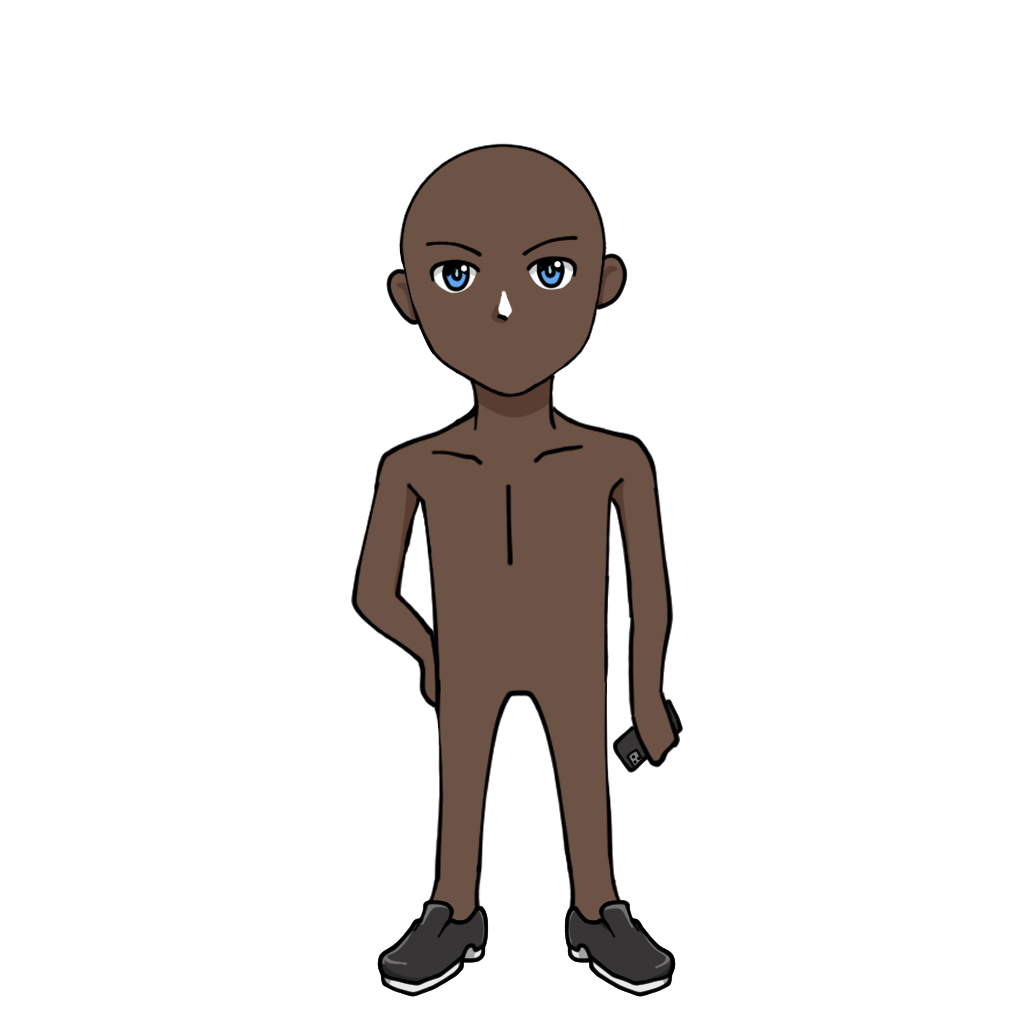
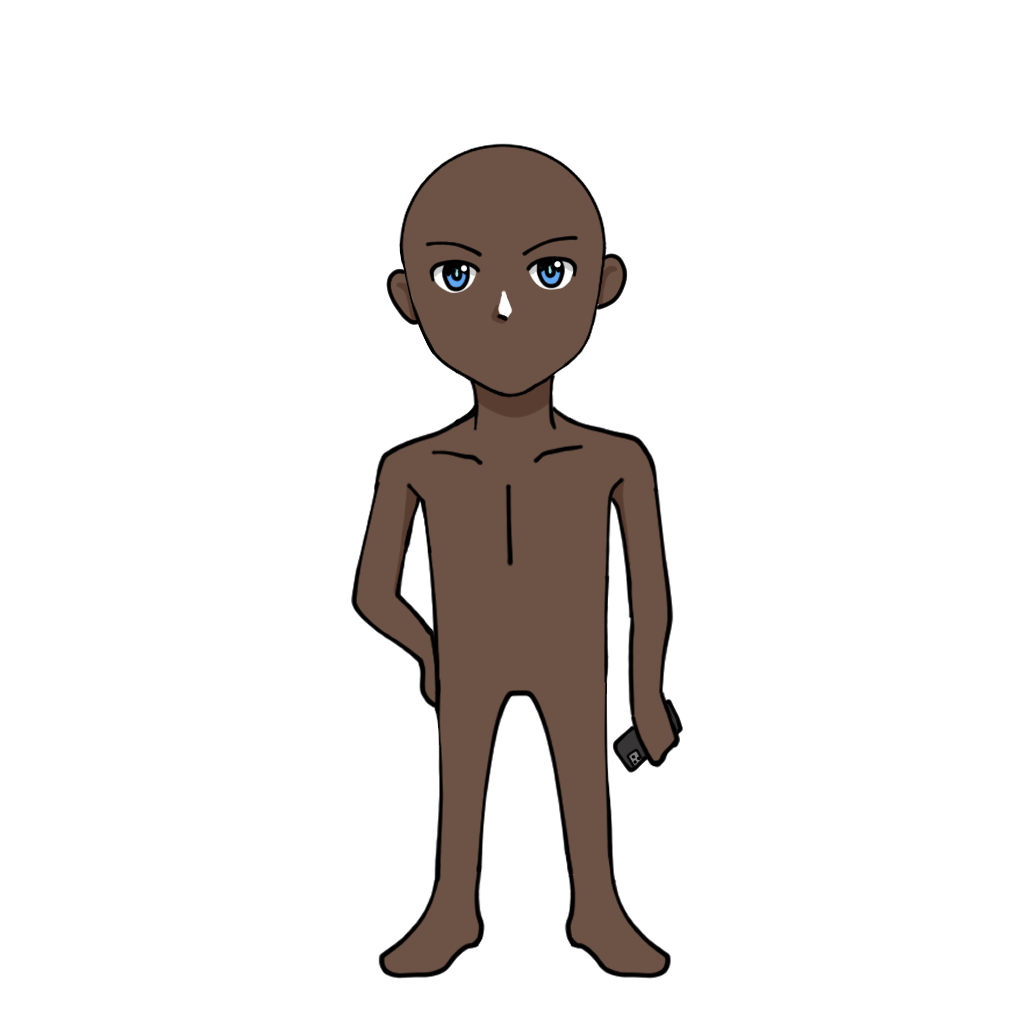
config.js

Changed region(s): [[0.5312, 0.875, 0.6562, 0.9688], [0.375, 0.875, 0.5, 0.9688]]

diff --git a/backend/src/config.js b/backend/src/config.js
@@ -12,7 +12,7 @@ const description = "Daynerds is a commutiny building project there will be an A
 const baseUri = "ipfs://NewUriToReplace"; // This will be replaced automatically
 
 const layerConfigurations = [{
-    growEditionSizeTo: 5000,
+    growEditionSizeTo: 1500,
     layersOrder: [
         { name: "Background" },
         { name: "Clothes" },
@@ -24,6 +24,7 @@ const layerConfigurations = [{
         { name: "Pants" },
         { name: "Right" },
         { name: "Right Bubble" },
+        { name: "Shoes" },
         { name: "Skin" },
     ],
 }, ];
@@ -57,7 +58,7 @@ const OWNER_ADDRESS = '0x7aF1b94a5697EBB0e64fB31c296f7273128a62Fd';
 const TREASURY_ADDRESS = '0x7aF1b94a5697EBB0e64fB31c296f7273128a62Fd';
 const MAX_SUPPLY = 1499; // The maximum number of NFTs that can be minted. CANNOT BE UPDATED!
 const MINT_PRICE = 0.02; // Minting price per NFT. Goerli = ETH, Ethereum = ETH, Polygon = MATIC. CANNOT BE UPDATED!
-const TOKENS_PER_MINT = 5; // maximum number of NFTs a user can mint in a single transaction. CANNOT BE UPDATED!
+const TOKENS_PER_MINT = 10; // maximum number of NFTs a user can mint in a single transaction. CANNOT BE UPDATED!
 
 // REQUIRED CONTRACT DETAILS THAT CAN BE UPDATED LATER.
 const PUBLIC_MINT_START_DATE = "2022-11-11T07:00:00+00:00"; // This is required. Eg: 2022-02-08T11:30:48+00:00
